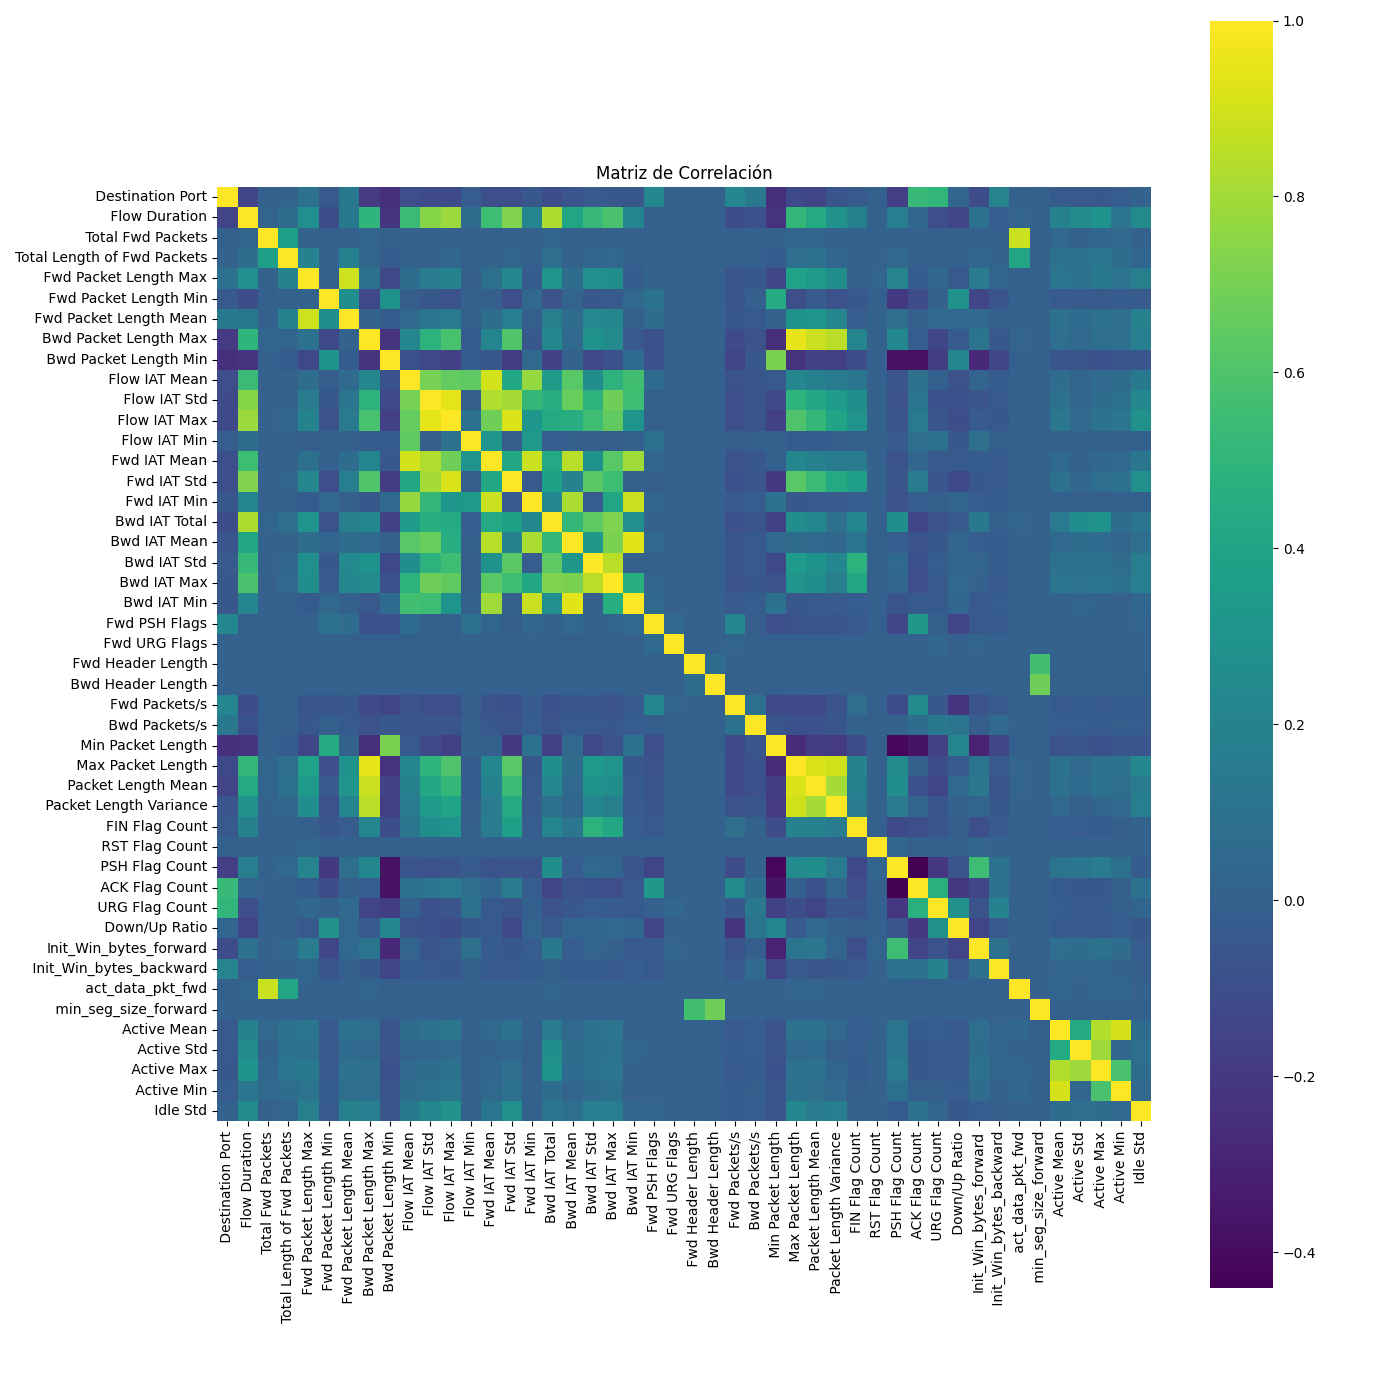
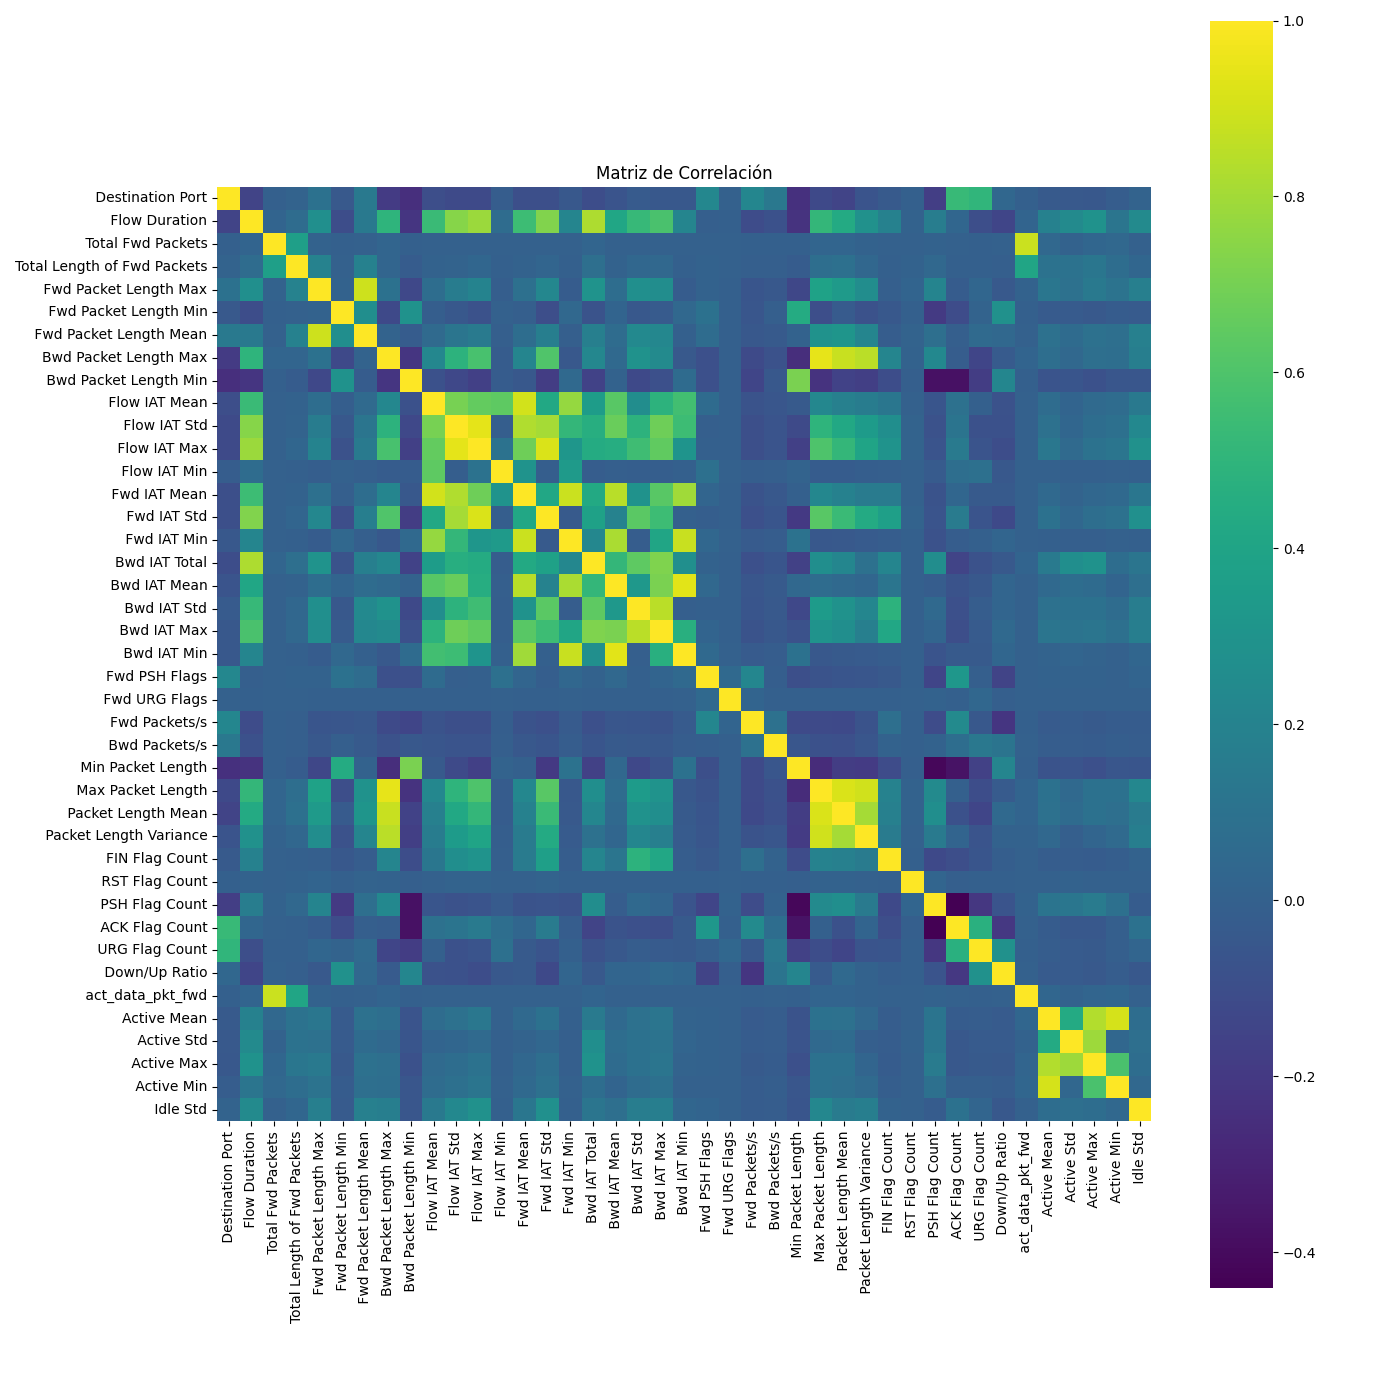
Eliminamos datos que NFStream no puede obtener al capturar flujos de red en tiempo real

diff --git a/code/stream_detection.py b/code/stream_detection.py
@@ -49,8 +49,6 @@ class Detection:
             ' Bwd PSH Flags',
             ' Fwd URG Flags',
             ' Bwd URG Flags',
-            ' Fwd Header Length',
-            ' Bwd Header Length',
             'Fwd Packets/s',
             ' Bwd Packets/s',
             ' Min Packet Length',
@@ -63,22 +61,13 @@ class Detection:
             ' ACK Flag Count',
             ' URG Flag Count',
             ' Down/Up Ratio',
-            'Fwd Avg Bytes/Bulk',
-            ' Fwd Avg Packets/Bulk',
-            ' Fwd Avg Bulk Rate',
-            ' Bwd Avg Bytes/Bulk',
-            ' Bwd Avg Packets/Bulk',
-            'Bwd Avg Bulk Rate',
-            'Init_Win_bytes_forward',
-            ' Init_Win_bytes_backward',
             ' act_data_pkt_fwd',
-            ' min_seg_size_forward',
             'Active Mean',
             ' Active Std',
             ' Active Max',
             ' Active Min',
             ' Idle Std'
-            ]
+            ]        
 
 
 
@@ -108,7 +97,7 @@ class Detection:
             'Fwd Packets/s': (flow.src2dst_packets / dur_sec) if dur_sec > 0 else 0,
             ' Bwd Packets/s': (flow.dst2src_packets / dur_sec) if dur_sec > 0 else 0,
 
-            # Tiempos entre paquetes (IAT) - Pasamos de ms a microsegundos
+            # Tiempos entre paquetes (IAT) --> Pasamos de ms a microsegundos
             ' Flow IAT Mean': flow.bidirectional_mean_piat_ms * 1000,
             ' Flow IAT Std': flow.bidirectional_stddev_piat_ms * 1000,
             ' Flow IAT Max': flow.bidirectional_max_piat_ms * 1000,
@@ -122,21 +111,19 @@ class Detection:
             ' Bwd IAT Max': flow.dst2src_max_piat_ms * 1000,
             ' Bwd IAT Min': flow.dst2src_min_piat_ms * 1000,
 
-            # Flags TCP (NFStream los da como conteo de paquetes)
-            'Fwd PSH Flags': flow.src2dst_psh_packets,
-            ' Bwd PSH Flags': flow.dst2src_psh_packets,
-            ' Fwd URG Flags': flow.src2dst_urg_packets,
-            ' Bwd URG Flags': flow.dst2src_urg_packets,
-            'FIN Flag Count': flow.bidirectional_fin_packets,
-            ' SYN Flag Count': flow.bidirectional_syn_packets,
-            ' RST Flag Count': flow.bidirectional_rst_packets,
-            ' PSH Flag Count': flow.bidirectional_psh_packets,
-            ' ACK Flag Count': flow.bidirectional_ack_packets,
-            ' URG Flag Count': flow.bidirectional_urg_packets,
+            # Flags TCP. NFStream los da como conteo de paquetes, asi que para que sea coherente con los datos de CICIDS2017 les asignamos un valor binario en funcion de su presencia
+            'Fwd PSH Flags': 1 if flow.src2dst_psh_packets > 0 else 0,
+            ' Bwd PSH Flags': 1 if flow.dst2src_psh_packets > 0 else 0,
+            ' Fwd URG Flags': 1 if flow.src2dst_urg_packets > 0 else 0,
+            ' Bwd URG Flags': 1 if flow.dst2src_urg_packets > 0 else 0,
+            'FIN Flag Count': 1 if flow.bidirectional_fin_packets > 0 else 0,
+            ' SYN Flag Count': 1 if flow.bidirectional_syn_packets > 0 else 0,
+            ' RST Flag Count': 1 if flow.bidirectional_rst_packets > 0 else 0,
+            ' PSH Flag Count': 1 if flow.bidirectional_psh_packets > 0 else 0,
+            ' ACK Flag Count': 1 if flow.bidirectional_ack_packets > 0 else 0,
+            ' URG Flag Count': 1 if flow.bidirectional_urg_packets > 0 else 0,
 
-            # Longitudes y Varianzas
-            ' Fwd Header Length': flow.src2dst_packets * 40,
-            ' Bwd Header Length': flow.dst2src_packets * 40,
+            # Tamaño minimo y maximo de paquetes y metricas
             ' Min Packet Length': flow.bidirectional_min_ps,
             ' Max Packet Length': flow.bidirectional_max_ps,
             ' Packet Length Mean': flow.bidirectional_mean_ps,
@@ -151,12 +138,6 @@ class Detection:
             ' Active Min': flow.bidirectional_duration_ms * 1000,
             ' Idle Std': 0,
 
-            # Campos que NFStream no extrae directamente (los inicializamos a 0 simplemente)
-            'Init_Win_bytes_forward': 0,
-            ' Init_Win_bytes_backward': 0,
-            ' min_seg_size_forward': 0,
-            'Fwd Avg Bytes/Bulk': 0, ' Fwd Avg Packets/Bulk': 0, ' Fwd Avg Bulk Rate': 0,
-            ' Bwd Avg Bytes/Bulk': 0, ' Bwd Avg Packets/Bulk': 0, 'Bwd Avg Bulk Rate': 0,
         }
 
         # Creamos el DataFrame con los datos ya mapeados
@@ -165,9 +146,10 @@ class Detection:
         # Si faltase alguna columna, la creamos y le asignamos un valor de 0 a todos sus registros
         for col in self.columns:
             if col not in df_live_data_flow.columns:
-                print(col)
-                df_live_data_flow[col] = 0
-
+                raise  KeyError(
+                    f'KeyError: No se encuentra la columna "{col}"'
+                )  
+    
         # Por ultimo solo nos queda reordenar el dataframe para que el modelo no confunda el orden de las variables y devolvemos el dataframe        
         return df_live_data_flow[self.columns] 
 
@@ -179,7 +161,7 @@ class Detection:
         nfstreamer = NFStreamer(source=f"{net_if}", 
                             statistical_analysis=True, # Muy importante para capturar metricas estadisticas de la red (si no, faltarian variables para convertir los datos)
                             splt_analysis=0,
-                            bpf_filter=f"dst host {server_ip} and tcp dst port 8080",
+                            bpf_filter=f"host {server_ip} and port 80",
                             promiscuous_mode=True,
                             # snapshot_len=100,
                             idle_timeout=15, 
@@ -190,20 +172,23 @@ class Detection:
         try:
             # Entramos en un bucle hasta que se detecte algun flujo, o hasta que el usuario detenga el programa
             for flow in nfstreamer:
-                print(flow)
-                # Llamamos al metodo map_flow para que los datos tengan el mismo formato que el dataset                
-                df_live = self.map_flow(flow)
-                
-                # Aplicamos el scaler para que los datos tengan la misma escala que los datos de entrenamiento
-                df_flow_scaled = self.scaler.transform(df_live)
+                if 0 <= flow.dst_port < 1024:
+                    print(f'Flujo recibido en puerto: {flow.dst_port}. IP: {flow.src_ip}')
+                    # Llamamos al metodo map_flow para que los datos tengan el mismo formato que el dataset                
+                    df_live = self.map_flow(flow)
 
-                # A continuacion pasamos el flujo de datos por el autoencoder
-                prediction = self.autoencoder.predict(df_flow_scaled)
-                # Y calculamos el error cuadratico medio MSE
-                mse = np.mean(np.power(df_flow_scaled - prediction, 2), axis=1)[0]
-                print(mse)
-                
-                # Y en caso de que se detectase como malicioso, realizar una clasificacion para obtener el tipo de ataque
+                    # Aplicamos el scaler para que los datos tengan la misma escala que los datos de entrenamiento
+                    df_flow_scaled = self.scaler.transform(df_live)
+
+                    # A continuacion pasamos el flujo de datos por el autoencoder
+                    prediction = self.autoencoder.predict(df_flow_scaled)
+                    # Y calculamos el error cuadratico medio MSE
+                    mse = np.mean(np.power(df_flow_scaled - prediction, 2), axis=1)[0]
+                    print(mse)
+                    
+                    # Y en caso de que se detectase como malicioso, realizar una clasificacion para obtener el tipo de ataque
+                else:
+                    print(f'Obviando flujo en puerto residual: {flow.dst_port}')    
 
         except KeyboardInterrupt:
             print("Deteniendo rastreo...")
